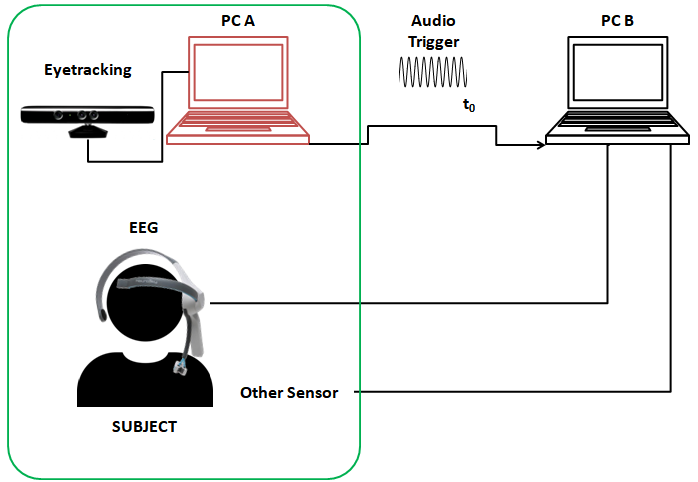
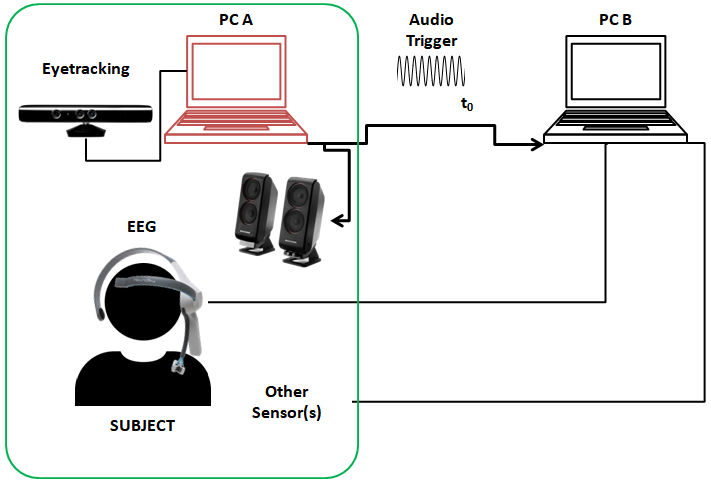
Script for Initial Settings

Changed region(s): [[0.0, 0.0, 0.9928, 0.9959], [0.0903, 0.7158, 0.1805, 0.8402]]

diff --git a/Scripts/html/USER_GUIDE.html b/Scripts/html/USER_GUIDE.html
@@ -1,0 +1,107 @@
+
+<!DOCTYPE html
+  PUBLIC "-//W3C//DTD HTML 4.01 Transitional//EN">
+<html><head>
+      <meta http-equiv="Content-Type" content="text/html; charset=utf-8">
+   <!--
+This HTML was auto-generated from MATLAB code.
+To make changes, update the MATLAB code and republish this document.
+      --><title></title><meta name="generator" content="MATLAB 8.5"><link rel="schema.DC" href="http://purl.org/dc/elements/1.1/"><meta name="DC.date" content="2020-08-11"><meta name="DC.source" content="USER_GUIDE.m"><style type="text/css">
+html,body,div,span,applet,object,iframe,h1,h2,h3,h4,h5,h6,p,blockquote,pre,a,abbr,acronym,address,big,cite,code,del,dfn,em,font,img,ins,kbd,q,s,samp,small,strike,strong,sub,sup,tt,var,b,u,i,center,dl,dt,dd,ol,ul,li,fieldset,form,label,legend,table,caption,tbody,tfoot,thead,tr,th,td{margin:0;padding:0;border:0;outline:0;font-size:100%;vertical-align:baseline;background:transparent}body{line-height:1}ol,ul{list-style:none}blockquote,q{quotes:none}blockquote:before,blockquote:after,q:before,q:after{content:'';content:none}:focus{outine:0}ins{text-decoration:none}del{text-decoration:line-through}table{border-collapse:collapse;border-spacing:0}
+
+html { min-height:100%; margin-bottom:1px; }
+html body { height:100%; margin:0px; font-family:Arial, Helvetica, sans-serif; font-size:10px; color:#000; line-height:140%; background:#fff none; overflow-y:scroll; }
+html body td { vertical-align:top; text-align:left; }
+
+h1 { padding:0px; margin:0px 0px 25px; font-family:Arial, Helvetica, sans-serif; font-size:1.5em; color:#d55000; line-height:100%; font-weight:normal; }
+h2 { padding:0px; margin:0px 0px 8px; font-family:Arial, Helvetica, sans-serif; font-size:1.2em; color:#000; font-weight:bold; line-height:140%; border-bottom:1px solid #d6d4d4; display:block; }
+h3 { padding:0px; margin:0px 0px 5px; font-family:Arial, Helvetica, sans-serif; font-size:1.1em; color:#000; font-weight:bold; line-height:140%; }
+
+a { color:#005fce; text-decoration:none; }
+a:hover { color:#005fce; text-decoration:underline; }
+a:visited { color:#004aa0; text-decoration:none; }
+
+p { padding:0px; margin:0px 0px 20px; }
+img { padding:0px; margin:0px 0px 20px; border:none; }
+p img, pre img, tt img, li img, h1 img, h2 img { margin-bottom:0px; } 
+
+ul { padding:0px; margin:0px 0px 20px 23px; list-style:square; }
+ul li { padding:0px; margin:0px 0px 7px 0px; }
+ul li ul { padding:5px 0px 0px; margin:0px 0px 7px 23px; }
+ul li ol li { list-style:decimal; }
+ol { padding:0px; margin:0px 0px 20px 0px; list-style:decimal; }
+ol li { padding:0px; margin:0px 0px 7px 23px; list-style-type:decimal; }
+ol li ol { padding:5px 0px 0px; margin:0px 0px 7px 0px; }
+ol li ol li { list-style-type:lower-alpha; }
+ol li ul { padding-top:7px; }
+ol li ul li { list-style:square; }
+
+.content { font-size:1.2em; line-height:140%; padding: 20px; }
+
+pre, code { font-size:12px; }
+tt { font-size: 1.2em; }
+pre { margin:0px 0px 20px; }
+pre.codeinput { padding:10px; border:1px solid #d3d3d3; background:#f7f7f7; }
+pre.codeoutput { padding:10px 11px; margin:0px 0px 20px; color:#4c4c4c; }
+pre.error { color:red; }
+
+@media print { pre.codeinput, pre.codeoutput { word-wrap:break-word; width:100%; } }
+
+span.keyword { color:#0000FF }
+span.comment { color:#228B22 }
+span.string { color:#A020F0 }
+span.untermstring { color:#B20000 }
+span.syscmd { color:#B28C00 }
+
+.footer { width:auto; padding:10px 0px; margin:25px 0px 0px; border-top:1px dotted #878787; font-size:0.8em; line-height:140%; font-style:italic; color:#878787; text-align:left; float:none; }
+.footer p { margin:0px; }
+.footer a { color:#878787; }
+.footer a:hover { color:#878787; text-decoration:underline; }
+.footer a:visited { color:#878787; }
+
+table th { padding:7px 5px; text-align:left; vertical-align:middle; border: 1px solid #d6d4d4; font-weight:bold; }
+table td { padding:7px 5px; text-align:left; vertical-align:top; border:1px solid #d6d4d4; }
+
+
+
+
+
+  </style></head><body><div class="content"><h1><img src="USER_GUIDE_eq00560399602187840599.png" alt="$\bf{AudioPsynch}$"></h1><!--introduction--><p><b>SOURCE</b> : <a href="https://github.com/vladscript/audiopsynch.git">https://github.com/vladscript/audiopsynch.git</a></p><p><tt>Installation Guide</tt></p><!--/introduction--><h2>Contents</h2><div><ul><li><a href="#1">0. Requirements</a></li><li><a href="#2">1. PC A</a></li><li><a href="#3">2. PC C</a></li><li><a href="#4">3. Audio Test</a></li><li><a href="#5">4. Experiment Test</a></li><li><a href="#6">END ####################################################################</a></li></ul></div><h2>0. Requirements<a name="1"></a></h2><div><ul><li>MATLAB</li><li>PsychToolbox (PTB-3)</li><li>Enabled Microphone</li><li>Import ALL functions        &gt;&gt;Import_AudioPsynch</li></ul></div><h2>1. PC A<a name="2"></a></h2><p>Getting</p><h2>2. PC C<a name="3"></a></h2><p>ACTUAL MODE: @ Original Coordiantes Order</p><div><ul><li>&gt;&gt;Select_Rasters</li></ul></div><h2>3. Audio Test<a name="4"></a></h2><p>ACTUAL MODE: @ Original Coordiantes Order</p><div><ul><li>&gt;&gt;Select_Rasters</li></ul></div><h2>4. Experiment Test<a name="5"></a></h2><p>ACTUAL MODE: @ Original Coordiantes Order</p><div><ul><li>&gt;&gt;Select_Rasters</li></ul></div><h2>END ####################################################################<a name="6"></a></h2><p class="footer"><br><a href="http://www.mathworks.com/products/matlab/">Published with MATLAB&reg; R2015a</a><br></p></div><!--
+##### SOURCE BEGIN #####
+%% $\bf{AudioPsynch}$
+% 
+% *SOURCE* :
+% <https://github.com/vladscript/audiopsynch.git>
+% 
+% |Installation Guide|
+
+
+%% 0. Requirements
+% 
+% * MATLAB
+% * PsychToolbox (PTB-3)
+% * Enabled Microphone
+% * Import ALL functions        >>Import_AudioPsynch
+% 
+%% 1. PC A
+% Getting 
+% 
+%% 2. PC C
+% ACTUAL MODE: @ Original Coordiantes Order
+% 
+% * >>Select_Rasters
+%
+%% 3. Audio Test
+% ACTUAL MODE: @ Original Coordiantes Order
+% 
+% * >>Select_Rasters
+%
+%% 4. Experiment Test
+% ACTUAL MODE: @ Original Coordiantes Order
+% 
+% * >>Select_Rasters
+%
+
+%% END ####################################################################
+##### SOURCE END #####
+--></body></html>

diff --git a/Scripts_PC_A/BeepHeader.m b/Scripts_PC_A/BeepHeader.m
@@ -1,87 +1,101 @@
-%% MAKE BEEP BEFORE EXPERIMENT
+%% HEADER BEEP BEFORE EXPERIMENT
+% This Scripts works as a block before experiment in order to record
+% audio trigger in PC B as a train of beeps
 
 %% Check if PTB-3 is installed
-
-%% Make ADVERTS:
-% Connection
-% Volume control
-% ... 
-
-%% Build Beep
-% AUDIO SETUP
-fprintf('\n>>Loading audio:')
-% Initialize Sounddriver
-InitializePsychSound(1);
-% Number of channels and Frequency of the sound
-nrchannels = 2; 
-BeepFeatures =  readtable('BeepSettings.csv');
-Sampfreq=BeepFeatures.SamplingFreq;
-beepLengthSecs=BeepFeatures.Length;
-Beepfreq=BeepFeatures.FreqBeep;
-Nbeeps=BeepFeatures.Nreps;
-% Start immediately (0 = immediately)
-startCue = 0;
-% Should we wait for the device to really start (1 = yes)
-waitForDeviceStart = 1;
-pahandle = PsychPortAudio('Open', [], 1, 1, Sampfreq, nrchannels);
-
-PsychPortAudio('Volume', pahandle, 1);
-% Make a beep which we will play back to the user
-myBeep = MakeBeep(Beepfreq, beepLengthSecs, Sampfreq);
-% Fill the audio playback buffer with the audio data, doubled for stereo
-PsychPortAudio('FillBuffer', pahandle, [myBeep; myBeep]);
-fprintf('done.\n')
-% Setup PTB with some default values
-PsychDefaultSetup(2);
-screenNumber = max(Screen('Screens'));
-% Define black, white and grey
-black = BlackIndex(screenNumber);
-% Open the screen
-[window, windowRect] = PsychImaging('OpenWindow', screenNumber, black, [], 32, 2);
-[xCenter, yCenter] = RectCenter(windowRect);
-ifi = Screen('GetFlipInterval', window);
-Screen('TextSize', window, 40);
-topPriorityLevel = MaxPriority(window);
-Screen('BlendFunction', window, 'GL_SRC_ALPHA', 'GL_ONE_MINUS_SRC_ALPHA');
-isiTimeSecs = 1;
-isiTimeFrames = round(isiTimeSecs / ifi);
-% Numer of frames to wait before re-drawing
-waitframes = 1;
-% Start audio playback
-Priority(topPriorityLevel);
-vbl = Screen('Flip', window);
-% Nbeeps=4;
-TymeSynchs=zeros(Nbeeps,1);
-for i=1:Nbeeps
-    % Beep 
-    PsychPortAudio('Start', pahandle, repetitions, startCue, waitForDeviceStart);
-    for j=1:beepLengthSecs*round(1/ifi)
-        % Draw text
-        DrawFormattedText(window, ['Synch BEEP #',num2str(i)], 'center', 'center', [1 0 0]);
-        % Flip to the screen
-        vbl = Screen('Flip', window, vbl + (waitframes - 0.5) * ifi);
-    end
-    % A,B,C TimeStamps to Synch
-    TymeSynchs(i)=vbl;
-    PsychPortAudio('Stop', pahandle);
-    % Silence
-    for j=1:beepPauseTime*round(1/ifi)
-        % Draw text
-        DrawFormattedText(window,'...', 'center', 'center', [1 0 0]);
-        % Flip to the screen
-        vbl = Screen('Flip', window, vbl + (waitframes - 0.5) * ifi);
-    end
+KeepSynch=false;
+fprintf('\n>>Checking PTB-3: ')
+if exist('PsychDefaultSetup.m','file')
+    fprintf('installed.\n');
+    KeepSynch=true;
+else
+    fprintf('not found.\n')
+    fprintf('Install or add Folder in Set Path in ENVIRONENT toolstrip.\n')
 end
-% Close the audio device
-PsychPortAudio('Close', pahandle);
+% Continue;
+if KeepSynch
+    %% Make ADVERTS:
+    
+    myicon = imread('Figures/AudioSign.png');
+    h=msgbox('Make sure volume Audio is 50% and Sensors are Connected','Setup','custom',myicon);
+    waitfor(h);
+    
+    %% Build Beep
+    % AUDIO SETUP
+    fprintf('\n>>Loading audio:')
+    % Initialize Sounddriver
+    InitializePsychSound(1);
+    % Beep Settings
+    nrchannels = 2; 
+    BeepFeatures =  readtable('BeepSettings.csv');
+    Sampfreq=BeepFeatures.SamplingFreq;
+    beepLengthSecs=BeepFeatures.Length;
+    Beepfreq=BeepFeatures.FreqBeep;
+    Nbeeps=BeepFeatures.Nreps;
+    % Start immediately (0 = immediately)
+    startCue = 0;
+    % Should we wait for the device to really start (1 = yes)
+    waitForDeviceStart = 1;
+    pahandle = PsychPortAudio('Open', [], 1, 1, Sampfreq, nrchannels);
 
-while ~KbCheck
-    DrawFormattedText(window, 'Presiona cualquier tecla',...
-    'center', 'center', [1 1 1]);
-    vbl=Screen('Flip', window);
+    PsychPortAudio('Volume', pahandle, 1);
+    % Make a beep which we will play back to the user
+    myBeep = MakeBeep(Beepfreq, beepLengthSecs, Sampfreq);
+    % Fill the audio playback buffer with the audio data, doubled for stereo
+    PsychPortAudio('FillBuffer', pahandle, [myBeep; myBeep]);
+    fprintf('done.\n')
+    % Setup PTB with some default values
+    PsychDefaultSetup(2);
+    screenNumber = max(Screen('Screens'));
+    % Define black, white and grey
+    black = BlackIndex(screenNumber);
+    % Open the screen
+    [window, windowRect] = PsychImaging('OpenWindow', screenNumber, black, [], 32, 2);
+    [xCenter, yCenter] = RectCenter(windowRect);
+    ifi = Screen('GetFlipInterval', window);
+    Screen('TextSize', window, 40);
+    topPriorityLevel = MaxPriority(window);
+    Screen('BlendFunction', window, 'GL_SRC_ALPHA', 'GL_ONE_MINUS_SRC_ALPHA');
+    isiTimeSecs = 1;
+    isiTimeFrames = round(isiTimeSecs / ifi);
+    % Numer of frames to wait before re-drawing
+    waitframes = 1;
+    % Start audio playback
+    Priority(topPriorityLevel);
+    vbl = Screen('Flip', window);
+    % Nbeeps=4;
+    TymeSynchs=zeros(Nbeeps,1);
+    for i=1:Nbeeps
+        % Beep 
+        PsychPortAudio('Start', pahandle, repetitions, startCue, waitForDeviceStart);
+        for j=1:beepLengthSecs*round(1/ifi)
+            % Draw text
+            DrawFormattedText(window, ['Synch BEEP #',num2str(i)], 'center', 'center', [1 0 0]);
+            % Flip to the screen
+            vbl = Screen('Flip', window, vbl + (waitframes - 0.5) * ifi);
+        end
+        % A,B,C TimeStamps to Synch
+        TymeSynchs(i)=vbl;
+        PsychPortAudio('Stop', pahandle);
+        % Silence
+        for j=1:beepPauseTime*round(1/ifi)
+            % Draw text
+            DrawFormattedText(window,'...', 'center', 'center', [1 0 0]);
+            % Flip to the screen
+            vbl = Screen('Flip', window, vbl + (waitframes - 0.5) * ifi);
+        end
+    end
+    % Close the audio device
+    PsychPortAudio('Close', pahandle);
+
+    while ~KbCheck
+        DrawFormattedText(window, 'Presiona cualquier tecla',...
+        'center', 'center', [1 1 1]);
+        vbl=Screen('Flip', window);
+    end
+    TimeStartExperiment=vbl;
+
+    % NEXT: EXPERIMENT
+    % CLEAR SCREEN: END 
+    % sca;
 end
-TimeStartExperiment=vbl;
-
-% NEXT: EXPERIMENT
-% CLEAR SCREEN: END 
-% sca;

diff --git a/Scripts/USER_GUIDE.m b/Scripts/USER_GUIDE.m
@@ -1,0 +1,35 @@
+%% $\bf{AudioPsynch}$
+% 
+% *SOURCE* :
+% <https://github.com/vladscript/audiopsynch.git>
+% 
+% |Installation and Use Guide|
+
+
+%% 0. Requirements
+% 
+% * MATLAB
+% * PsychToolbox (PTB-3)
+% * Enabled Microphone
+% * Import ALL functions        >>Import_AudioPsynch
+% 
+%% 1. PC A
+% Getting 
+% 
+%% 2. PC C
+% ACTUAL MODE: @ Original Coordiantes Order
+% 
+% * >>Select_Rasters
+%
+%% 3. Audio Test
+% ACTUAL MODE: @ Original Coordiantes Order
+% 
+% * >>Select_Rasters
+%
+%% 4. Experiment Test
+% ACTUAL MODE: @ Original Coordiantes Order
+% 
+% * >>Select_Rasters
+%
+
+%% END ####################################################################

diff --git a/Import_AudioPsynch.m b/Import_AudioPsynch.m
@@ -5,6 +5,7 @@ if exist('BeepHeader.m','file')
     fprintf('already ')
 else
     ActualDir=pwd;
+    addpath(genpath([ActualDir,'\Scripts']))
     addpath(genpath([ActualDir,'\Scripts_PC_A']))
     addpath(genpath([ActualDir,'\Scripts_PC_B']))
 end

diff --git a/Help_AP.m b/Help_AP.m
@@ -1,0 +1,2 @@
+%% Open Help file
+open([pwd,'/Scripts/html/USER_GUIDE.html'])

diff --git a/README.md b/README.md
@@ -1,2 +1,26 @@
-# audiopsynch
-MATLAB scripts to record EEG, Eyetracking during behavior tests in Psychtoolbox-3 synchronized by audio trigger
+# AudioPsynch
+
+## MATLAB scripts to record EEG, Eyetracking during behavior tests in Psychtoolbox-3 synchronized by audio trigger
+![Setup](/Figures/Setup.png)
+
+### Experiment Profile:
+* Simultaneuos recordings of EEG and Eyetracking in Psychtoolbox
+
+
+### Brief Hardware Description
+* **PC A**
+  - For graphics
+* **PC B**
+  - Standard Laptop
+* **[Neurosky](http://neurosky.com/)**
+  - Single Channel EEG
+* **[GazePoint](https://www.gazept.com/)**
+  - Single Channel EEG
+    
+### Audio Trigger for Synchronizated Recordings
+* **PC A** sende beep to **PC B**
+
+
+* Third Party Software:
+  - [PsychToolbox](http://psychtoolbox.org/)
+  
